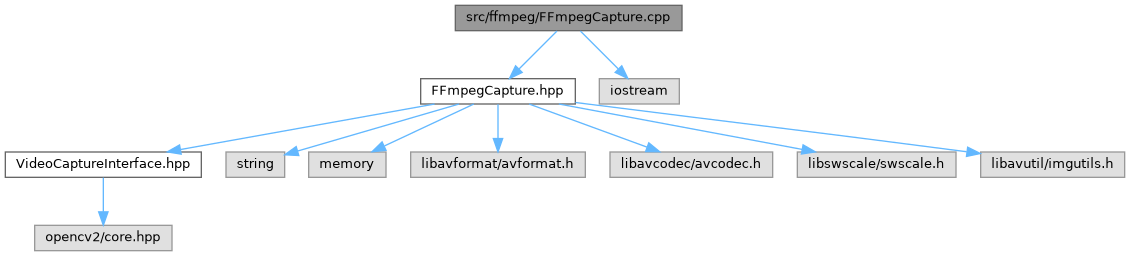
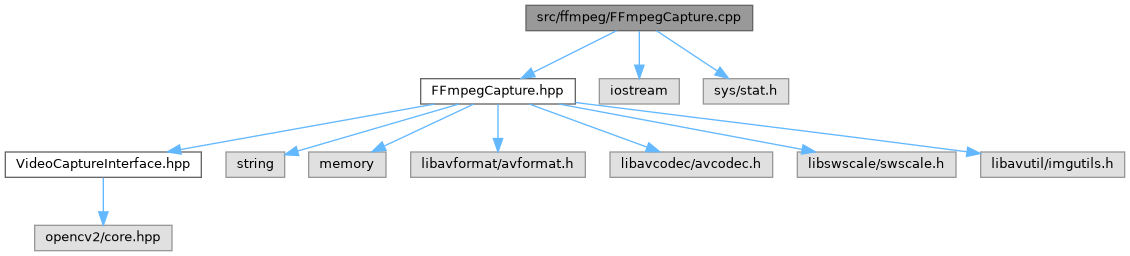
deploy: b9addd3cfaf24c5d651890cce30559ddf68db3af

diff --git a/FFmpegCapture_8hpp_source.html b/FFmpegCapture_8hpp_source.html
@@ -121,11 +121,11 @@ $(document).ready(function() { init_codefold(0); });
 </div>
 <div class="ttc" id="aVideoCaptureInterface_8hpp_html"><div class="ttname"><a href="VideoCaptureInterface_8hpp.html">VideoCaptureInterface.hpp</a></div></div>
 <div class="ttc" id="aclassFFmpegCapture_html"><div class="ttname"><a href="classFFmpegCapture.html">FFmpegCapture</a></div><div class="ttdef"><b>Definition</b> FFmpegCapture.hpp:13</div></div>
-<div class="ttc" id="aclassFFmpegCapture_html_a43cb4e5070aca419976fa4166409f929"><div class="ttname"><a href="classFFmpegCapture.html#a43cb4e5070aca419976fa4166409f929">FFmpegCapture::release</a></div><div class="ttdeci">void release() override</div><div class="ttdef"><b>Definition</b> FFmpegCapture.cpp:195</div></div>
-<div class="ttc" id="aclassFFmpegCapture_html_a506b395b2f80c3b42d1f283a2751e268"><div class="ttname"><a href="classFFmpegCapture.html#a506b395b2f80c3b42d1f283a2751e268">FFmpegCapture::initialize</a></div><div class="ttdeci">bool initialize(const std::string &amp;source) override</div><div class="ttdef"><b>Definition</b> FFmpegCapture.cpp:45</div></div>
-<div class="ttc" id="aclassFFmpegCapture_html_a6f2a76034be4123ecccbd75f19c74236"><div class="ttname"><a href="classFFmpegCapture.html#a6f2a76034be4123ecccbd75f19c74236">FFmpegCapture::~FFmpegCapture</a></div><div class="ttdeci">~FFmpegCapture()</div><div class="ttdef"><b>Definition</b> FFmpegCapture.cpp:9</div></div>
-<div class="ttc" id="aclassFFmpegCapture_html_abd11f31816c7f0768982a706b3e4f982"><div class="ttname"><a href="classFFmpegCapture.html#abd11f31816c7f0768982a706b3e4f982">FFmpegCapture::FFmpegCapture</a></div><div class="ttdeci">FFmpegCapture()</div><div class="ttdef"><b>Definition</b> FFmpegCapture.cpp:4</div></div>
-<div class="ttc" id="aclassFFmpegCapture_html_ae7c3c4c50b5b420270cee37ffdf936c1"><div class="ttname"><a href="classFFmpegCapture.html#ae7c3c4c50b5b420270cee37ffdf936c1">FFmpegCapture::readFrame</a></div><div class="ttdeci">bool readFrame(cv::Mat &amp;frame) override</div><div class="ttdef"><b>Definition</b> FFmpegCapture.cpp:148</div></div>
+<div class="ttc" id="aclassFFmpegCapture_html_a43cb4e5070aca419976fa4166409f929"><div class="ttname"><a href="classFFmpegCapture.html#a43cb4e5070aca419976fa4166409f929">FFmpegCapture::release</a></div><div class="ttdeci">void release() override</div><div class="ttdef"><b>Definition</b> FFmpegCapture.cpp:206</div></div>
+<div class="ttc" id="aclassFFmpegCapture_html_a506b395b2f80c3b42d1f283a2751e268"><div class="ttname"><a href="classFFmpegCapture.html#a506b395b2f80c3b42d1f283a2751e268">FFmpegCapture::initialize</a></div><div class="ttdeci">bool initialize(const std::string &amp;source) override</div><div class="ttdef"><b>Definition</b> FFmpegCapture.cpp:46</div></div>
+<div class="ttc" id="aclassFFmpegCapture_html_a6f2a76034be4123ecccbd75f19c74236"><div class="ttname"><a href="classFFmpegCapture.html#a6f2a76034be4123ecccbd75f19c74236">FFmpegCapture::~FFmpegCapture</a></div><div class="ttdeci">~FFmpegCapture()</div><div class="ttdef"><b>Definition</b> FFmpegCapture.cpp:10</div></div>
+<div class="ttc" id="aclassFFmpegCapture_html_abd11f31816c7f0768982a706b3e4f982"><div class="ttname"><a href="classFFmpegCapture.html#abd11f31816c7f0768982a706b3e4f982">FFmpegCapture::FFmpegCapture</a></div><div class="ttdeci">FFmpegCapture()</div><div class="ttdef"><b>Definition</b> FFmpegCapture.cpp:5</div></div>
+<div class="ttc" id="aclassFFmpegCapture_html_ae7c3c4c50b5b420270cee37ffdf936c1"><div class="ttname"><a href="classFFmpegCapture.html#ae7c3c4c50b5b420270cee37ffdf936c1">FFmpegCapture::readFrame</a></div><div class="ttdeci">bool readFrame(cv::Mat &amp;frame) override</div><div class="ttdef"><b>Definition</b> FFmpegCapture.cpp:159</div></div>
 <div class="ttc" id="aclassVideoCaptureInterface_html"><div class="ttname"><a href="classVideoCaptureInterface.html">VideoCaptureInterface</a></div><div class="ttdef"><b>Definition</b> VideoCaptureInterface.hpp:4</div></div>
 </div><!-- fragment --></div><!-- contents -->
 <!-- start footer part -->

diff --git a/FFmpegCapture_8cpp.html b/FFmpegCapture_8cpp.html
@@ -79,16 +79,19 @@ $(function() {
 <div class="contents">
 <div class="textblock"><code>#include &quot;<a class="el" href="FFmpegCapture_8hpp_source.html">FFmpegCapture.hpp</a>&quot;</code><br />
 <code>#include &lt;iostream&gt;</code><br />
+<code>#include &lt;sys/stat.h&gt;</code><br />
 </div><div class="textblock"><div class="dynheader">
 Include dependency graph for FFmpegCapture.cpp:</div>
 <div class="dyncontent">
 <div class="center"><img src="FFmpegCapture_8cpp__incl.png" border="0" usemap="#asrc_2ffmpeg_2FFmpegCapture_8cpp" alt=""/></div>
 <map name="asrc_2ffmpeg_2FFmpegCapture_8cpp" id="asrc_2ffmpeg_2FFmpegCapture_8cpp">
-<area shape="rect" title=" " alt="" coords="455,5,682,31"/>
+<area shape="rect" title=" " alt="" coords="526,5,753,31"/>
 <area shape="rect" href="FFmpegCapture_8hpp.html" title=" " alt="" coords="421,79,575,104"/>
-<area shape="poly" title=" " alt="" coords="559,33,521,71,517,67,555,29"/>
+<area shape="poly" title=" " alt="" coords="618,33,534,75,532,70,615,28"/>
 <area shape="rect" title=" " alt="" coords="599,79,679,104"/>
-<area shape="poly" title=" " alt="" coords="582,29,620,67,616,71,578,33"/>
+<area shape="poly" title=" " alt="" coords="642,31,642,65,637,65,637,31"/>
+<area shape="rect" title=" " alt="" coords="703,79,789,104"/>
+<area shape="poly" title=" " alt="" coords="658,28,719,69,716,73,655,33"/>
 <area shape="rect" href="VideoCaptureInterface_8hpp.html" title=" " alt="" coords="5,152,201,177"/>
 <area shape="poly" title=" " alt="" coords="435,107,181,152,180,147,434,101"/>
 <area shape="rect" title=" " alt="" coords="226,152,285,177"/>
